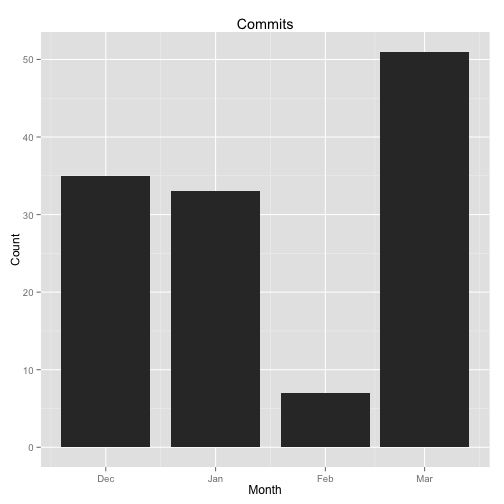
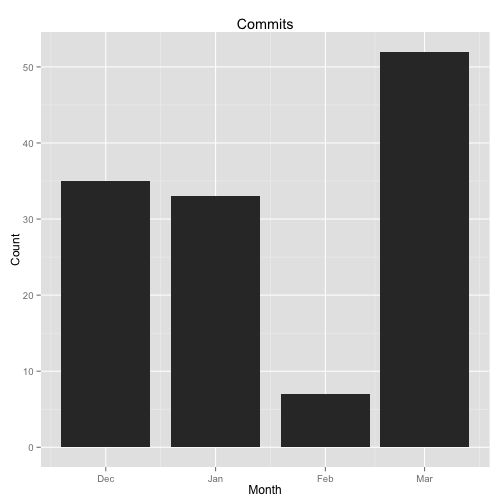
Updated README

diff --git a/README.md b/README.md
@@ -22,67 +22,210 @@ I'm developing the package on Linux, so it's very possible that other platforms 
 
 To install the development version of `git2r`, it's easiest to use the devtools package:
 
-```coffee
+
+
+
+
+
+```r
 # install.packages("devtools")
 library(devtools)
 install_github("git2r", "ropensci")
 ```
 
+
 Example
 -------
 
-```coffee
+
+```r
 library(git2r)
 
 # Open an existing repository
-repo <- repository("path/to/git2r")
+# repo <- repository("path/to/git2r")
+repo <- repository(getwd())
 
 # Brief summary of repository
 repo
+```
+
+```
+#> Remote:   @ origin (https://github.com/ropensci/git2r)
+#> Local:    README_fix /Users/karthik/Documents/work/Github/ropensci/git2r/
+```
+
+```r
 
 # Summary of repository
 summary(repo)
+```
+
+```
+#> Remote:   @ origin (https://github.com/ropensci/git2r)
+#> Local:    README_fix /Users/karthik/Documents/work/Github/ropensci/git2r/
+#> 
+#> Branches:      4
+#> Tags:          0
+#> Commits:       127
+#> Contributors:  2
+```
+
+```r
 
 # Workdir of repository
 workdir(repo)
+```
+
+```
+#> [1] "/Users/karthik/Documents/work/Github/ropensci/git2r/"
+```
+
+```r
 
 # Check if repository is bare
 is.bare(repo)
+```
+
+```
+#> [1] FALSE
+```
+
+```r
 
 # Check if repository is empty
 is.empty(repo)
+```
+
+```
+#> [1] FALSE
+```
+
+```r
 
 # List all references in repository
 references(repo)
+```
+
+```
+#> $`refs/heads/master`
+#> [88223a] master
+#> 
+#> $`refs/heads/README_fix`
+#> [9ef171] README_fix
+#> 
+#> $`refs/remotes/origin/example_fix`
+#> [1dda04] origin/example_fix
+#> 
+#> $`refs/remotes/origin/HEAD`
+#> refs/remotes/origin/HEAD => refs/remotes/origin/master
+#> 
+#> $`refs/remotes/origin/master`
+#> [88223a] origin/master
+#> 
+#> $`refs/remotes/origin/README_fix`
+#> [9ef171] origin/README_fix
+#> 
+#> $`refs/remotes/origin/travis_fix`
+#> [9089f6] origin/travis_fix
+#> 
+#> $`refs/stash`
+#> [3eb2cc] stash
+```
+
+```r
 
 # List all branches in repository
 branches(repo)
+```
+
+```
+#> [[1]]
+#> [88223a] (Local) master
+#> 
+#> [[2]]
+#> [9ef171] (Local) (HEAD) README_fix
+#> 
+#> [[3]]
+#> [1dda04] (origin @ https://github.com/ropensci/git2r) example_fix
+#> 
+#> [[4]]
+#> (origin @ https://github.com/ropensci/git2r) refs/remotes/origin/HEAD => refs/remotes/origin/master
+#> 
+#> [[5]]
+#> [88223a] (origin @ https://github.com/ropensci/git2r) master
+#> 
+#> [[6]]
+#> [9ef171] (origin @ https://github.com/ropensci/git2r) README_fix
+#> 
+#> [[7]]
+#> [9089f6] (origin @ https://github.com/ropensci/git2r) travis_fix
+```
+
+```r
 
 # List all commits in repository
-commits(repo)
+commits(repo)[1] # Truncated here for readability
+```
+
+```
+#> [[1]]
+#> Author:  Karthik Ram <karthik.ram@gmail.com>
+#> When:    2014-03-17 16:40:18
+#> Summary: Converted README.md to README.Rmd
+```
+
+```r
 
 # Get HEAD of repository
 head(repo)
+```
+
+```
+#> [9ef171] (Local) (HEAD) README_fix
+```
+
+```r
 
 # Check if HEAD is head
 is.head(head(repo))
+```
+
+```
+#> [1] TRUE
+```
+
+```r
 
 # Check if HEAD is local
 is.local(head(repo))
+```
+
+```
+#> [1] TRUE
+```
+
+```r
 
 # List all tags in repository
 tags(repo)
 ```
 
+```
+#> named list()
+```
+
+
 ### Visualize the number of commits per month in a repository
 
-```coffee
+
+```r
 library(git2r)
 library(ggplot2)
 library(plyr)
 
 ## Open a repository with some history
-repo <- repository('path/to/libgit2')
+# repo <- repository('path/to/libgit2')
+repo <- repository(getwd())
 
 ## Harvest neccessary data from repository
 df <- do.call('rbind', lapply(commits(repo), function(x) {
@@ -100,18 +243,22 @@ ggplot(df, aes(x=month, y=n)) +
     geom_bar(stat='identity') +
     scale_x_datetime('Month') +
     scale_y_continuous('Count') +
-    labs(title='Commits')
+    labs(title='Commits')  + theme_gray()
 ```
+
+![plot of chunk contributionnum](figure/contributionnum.png) 
+
+
+
 
 ### Visualize the number of contributors per month in a repository
 
-```coffee
-library(git2r)
-library(ggplot2)
-library(plyr)
+
+```r
 
 ## Open a repository with some history
-repo <- repository('path/to/libgit2')
+# repo <- repository('path/to/libgit2')
+repo <- repository(getwd())
 
 ## Harvest neccessary data from repository
 df <- do.call('rbind', lapply(commits(repo), function(x) {
@@ -129,14 +276,41 @@ ggplot(df, aes(x=month, y=n)) +
     geom_bar(stat='identity') +
     scale_x_datetime('Month') +
     scale_y_continuous('Count') +
-    labs(title='Contributors')
+    labs(title='Contributors')  + theme_gray()
 ```
+
+![plot of chunk contributions](figure/contributions.png) 
+
 
 ### Visualize contributions by user on a monthly timeline (another way of looking at the same data from above)
 
-```coffee
+
+```r
 library(dplyr)
-library(RColorBrewer)
+```
+
+```
+#> 
+#> Attaching package: 'dplyr'
+#> 
+#> The following objects are masked from 'package:plyr':
+#> 
+#>     arrange, desc, failwith, id, mutate, summarise, summarize
+#> 
+#> The following objects are masked from 'package:stats':
+#> 
+#>     filter, lag
+#> 
+#> The following object is masked from 'package:coyote':
+#> 
+#>     n
+#> 
+#> The following objects are masked from 'package:base':
+#> 
+#>     intersect, setdiff, setequal, union
+```
+
+```r
 library(scales)
 library(reshape2)
 repo_path <- getwd()
@@ -169,17 +343,34 @@ geom_bar(stat = "identity", position = "dodge", color = "black") +
 expand_limits(y = 0) + xlab("Month") + ylab("Commits") + 
 ggtitle(sprintf("Commits on repo %s", basename(repo_path))) +
 scale_x_date(labels = date_format("%m-%Y")) + theme_gray()
+```
+
+![plot of chunk contributions_by_user](figure/contributions_by_user.png) 
+
+```r
  
 ```
 
+
 ### Generate a wordcloud from the commit messages in a repository
 
-```coffee
+
+```r
 library(git2r)
 library(wordcloud)
+```
+
+```
+#> Loading required package: Rcpp
+#> Loading required package: RColorBrewer
+```
+
+```r
 
 ## Open the libgit2 repository
-repo <- repository('path/to/libgit2')
+# repo <- repository('path/to/libgit2')
+repo <- repository(getwd())
+
 
 ## Harvest neccessary data from repository
 msg <- paste(sapply(commits(repo), slot, 'message'), collapse=' ')
@@ -189,7 +380,13 @@ wordcloud(msg, scale=c(5,0.5), max.words=100, random.order=FALSE,
           rot.per=0.35, use.r.layout=FALSE, colors=brewer.pal(8, 'Dark2'))
 ```
 
-![wordcloud](wordcloud.png)
+```
+#> Loading required package: tm
+```
+
+![plot of chunk wordcloud](figure/wordcloud.png) 
+
+
 
 Included software
 -----------------
